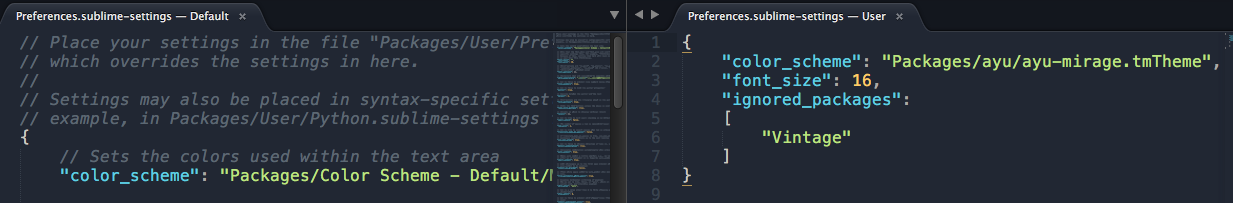
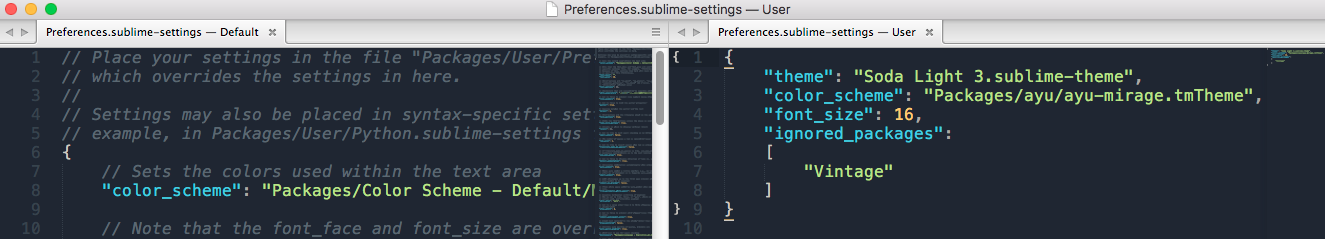
Site updated: 2017-12-28 11:59:59

diff --git a/2017/12/27/Sublime Text/index.html b/2017/12/27/Sublime Text/index.html
@@ -96,7 +96,7 @@
 <meta property="og:site_name" content="闻道">
 <meta property="og:description" content="应用介绍Sublime Text 拥有漂亮的用户界面和非凡的功能，而根据其官网介绍，Sublime Text的特点如下：拥有高效、没有干扰的界面，在编辑方面的多选、宏、代码片段等功能，以及很有特色的Minimap。用户广受喜爱的众多功能之一GOTO ANYTHING仅仅敲击几次键盘就能即刻jump to symbols, lines or words.Shortcuts:  ⌘ + P">
 <meta property="og:image" content="https://itjinkui.github.io/Sublime Text-color_scheme.png">
-<meta property="og:updated_time" content="2017-12-28T02:39:38.000Z">
+<meta property="og:updated_time" content="2017-12-28T03:55:51.000Z">
 <meta name="twitter:card" content="summary">
 <meta name="twitter:title" content="Mac下之Sublime Text的好用之处">
 <meta name="twitter:description" content="应用介绍Sublime Text 拥有漂亮的用户界面和非凡的功能，而根据其官网介绍，Sublime Text的特点如下：拥有高效、没有干扰的界面，在编辑方面的多选、宏、代码片段等功能，以及很有特色的Minimap。用户广受喜爱的众多功能之一GOTO ANYTHING仅仅敲击几次键盘就能即刻jump to symbols, lines or words.Shortcuts:  ⌘ + P">
@@ -397,7 +397,15 @@
         <h1 id="应用介绍"><a href="#应用介绍" class="headerlink" title="应用介绍"></a>应用介绍</h1><p>Sublime Text 拥有漂亮的用户界面和非凡的功能，而根据其官网介绍，Sublime Text的特点如下：拥有高效、没有干扰的界面，在编辑方面的多选、宏、代码片段等功能，以及很有特色的Minimap。<br>用户广受喜爱的众多功能之一GOTO ANYTHING<br>仅仅敲击几次键盘就能即刻jump to symbols, lines or words.<strong>Shortcuts:</strong>  <code>⌘ + P</code></p>
 <a id="more"></a>
 <p>要支持一把的官网购买啊<a href="http://www.sublimetext.com/" target="_blank" rel="external">http://www.sublimetext.com/</a>啊不花钱看这里：<a href="http://xclient.info/s/sublime-text.html?_=854c5c4c70359873adbd147e3e8c9cf3" target="_blank" rel="external">Sublime Text 3 Build 3156</a></p>
-<h1 id="插件与配置"><a href="#插件与配置" class="headerlink" title="插件与配置"></a>插件与配置</h1><h2 id="安装插件"><a href="#安装插件" class="headerlink" title="安装插件"></a>安装插件</h2><p>所有插件都可以使用Package Control安装，然后按下快捷键<code>⌘⇧P</code>，在命令提示框搜索插件即可。<br><a href="https://github.com/zhiqiang21/blog/issues/10" target="_blank" rel="external">前端开发 sublime text 常用插件和配置</a><br>我自己的主题和字体配置：<br><img src="Sublime Text-color_scheme.png" alt="Sublime Text-color_scheme"></p>
+<h1 id="主题插件安装"><a href="#主题插件安装" class="headerlink" title="主题插件安装"></a>主题插件安装</h1><p><a href="http://buymeasoda.github.io/soda-theme/" target="_blank" rel="external">soda-theme</a>该插件主要能够使sublime 兼容mac的retina屏幕<br>我采用Git安装最新版本，可以通过菜单 Preferences -&gt; Browse Packages….，定位到你的Sublime Text Packages文件夹，然后在这个文件夹下面 git clone就OK了。</p>
+<figure class="highlight plain"><table><tr><td class="gutter"><pre><div class="line">1</div></pre></td><td class="code"><pre><div class="line">git clone https://github.com/buymeasoda/soda-theme/ &quot;Theme - Soda&quot;</div></pre></td></tr></table></figure>
+<p><strong> Configure Sublime Text 3 </strong></p>
+<ul>
+<li>打开配置文件： Sublime Text -&gt; Preferences -&gt; Settings - User</li>
+<li>添加主题：”theme”: “Soda Light 3.sublime-theme”</li>
+</ul>
+<p>我自己的主题和字体配置：<br><img src="Sublime Text-color_scheme.png" alt="Sublime Text-color_scheme"></p>
+<h1 id="插件与配置"><a href="#插件与配置" class="headerlink" title="插件与配置"></a>插件与配置</h1><h2 id="安装插件"><a href="#安装插件" class="headerlink" title="安装插件"></a>安装插件</h2><p>所有插件都可以使用Package Control安装，然后按下快捷键<code>⌘⇧P</code>，在命令提示框搜索插件即可。<br><a href="https://github.com/zhiqiang21/blog/issues/10" target="_blank" rel="external">前端开发 sublime text 常用插件和配置</a></p>
 <h2 id="快捷键"><a href="#快捷键" class="headerlink" title="快捷键"></a>快捷键</h2><table>
 <thead>
 <tr>
@@ -885,7 +893,7 @@
             
 
             
-              <div class="post-toc-content"><ol class="nav"><li class="nav-item nav-level-1"><a class="nav-link" href="#应用介绍"><span class="nav-number">1.</span> <span class="nav-text">应用介绍</span></a></li><li class="nav-item nav-level-1"><a class="nav-link" href="#插件与配置"><span class="nav-number">2.</span> <span class="nav-text">插件与配置</span></a><ol class="nav-child"><li class="nav-item nav-level-2"><a class="nav-link" href="#安装插件"><span class="nav-number">2.1.</span> <span class="nav-text">安装插件</span></a></li><li class="nav-item nav-level-2"><a class="nav-link" href="#快捷键"><span class="nav-number">2.2.</span> <span class="nav-text">快捷键</span></a><ol class="nav-child"><li class="nav-item nav-level-3"><a class="nav-link" href="#打开-关闭-前往"><span class="nav-number">2.2.1.</span> <span class="nav-text">打开/关闭/前往</span></a></li><li class="nav-item nav-level-3"><a class="nav-link" href="#编辑"><span class="nav-number">2.2.2.</span> <span class="nav-text">编辑</span></a></li><li class="nav-item nav-level-3"><a class="nav-link" href="#打开-关闭-前往-1"><span class="nav-number">2.2.3.</span> <span class="nav-text">打开/关闭/前往</span></a></li></ol></li><li class="nav-item nav-level-2"><a class="nav-link" href="#结语"><span class="nav-number">2.3.</span> <span class="nav-text">结语</span></a></li></ol></li></ol></div>
+              <div class="post-toc-content"><ol class="nav"><li class="nav-item nav-level-1"><a class="nav-link" href="#应用介绍"><span class="nav-number">1.</span> <span class="nav-text">应用介绍</span></a></li><li class="nav-item nav-level-1"><a class="nav-link" href="#主题插件安装"><span class="nav-number">2.</span> <span class="nav-text">主题插件安装</span></a></li><li class="nav-item nav-level-1"><a class="nav-link" href="#插件与配置"><span class="nav-number">3.</span> <span class="nav-text">插件与配置</span></a><ol class="nav-child"><li class="nav-item nav-level-2"><a class="nav-link" href="#安装插件"><span class="nav-number">3.1.</span> <span class="nav-text">安装插件</span></a></li><li class="nav-item nav-level-2"><a class="nav-link" href="#快捷键"><span class="nav-number">3.2.</span> <span class="nav-text">快捷键</span></a><ol class="nav-child"><li class="nav-item nav-level-3"><a class="nav-link" href="#打开-关闭-前往"><span class="nav-number">3.2.1.</span> <span class="nav-text">打开/关闭/前往</span></a></li><li class="nav-item nav-level-3"><a class="nav-link" href="#编辑"><span class="nav-number">3.2.2.</span> <span class="nav-text">编辑</span></a></li><li class="nav-item nav-level-3"><a class="nav-link" href="#打开-关闭-前往-1"><span class="nav-number">3.2.3.</span> <span class="nav-text">打开/关闭/前往</span></a></li></ol></li><li class="nav-item nav-level-2"><a class="nav-link" href="#结语"><span class="nav-number">3.3.</span> <span class="nav-text">结语</span></a></li></ol></li></ol></div>
             
 
           </div>

diff --git a/css/main.css b/css/main.css
@@ -1699,7 +1699,7 @@ pre .javascript .function {
   width: 4px;
   height: 4px;
   border-radius: 50%;
-  background: #f0a47a;
+  background: #9d20a2;
 }
 .links-of-blogroll {
   font-size: 13px;
